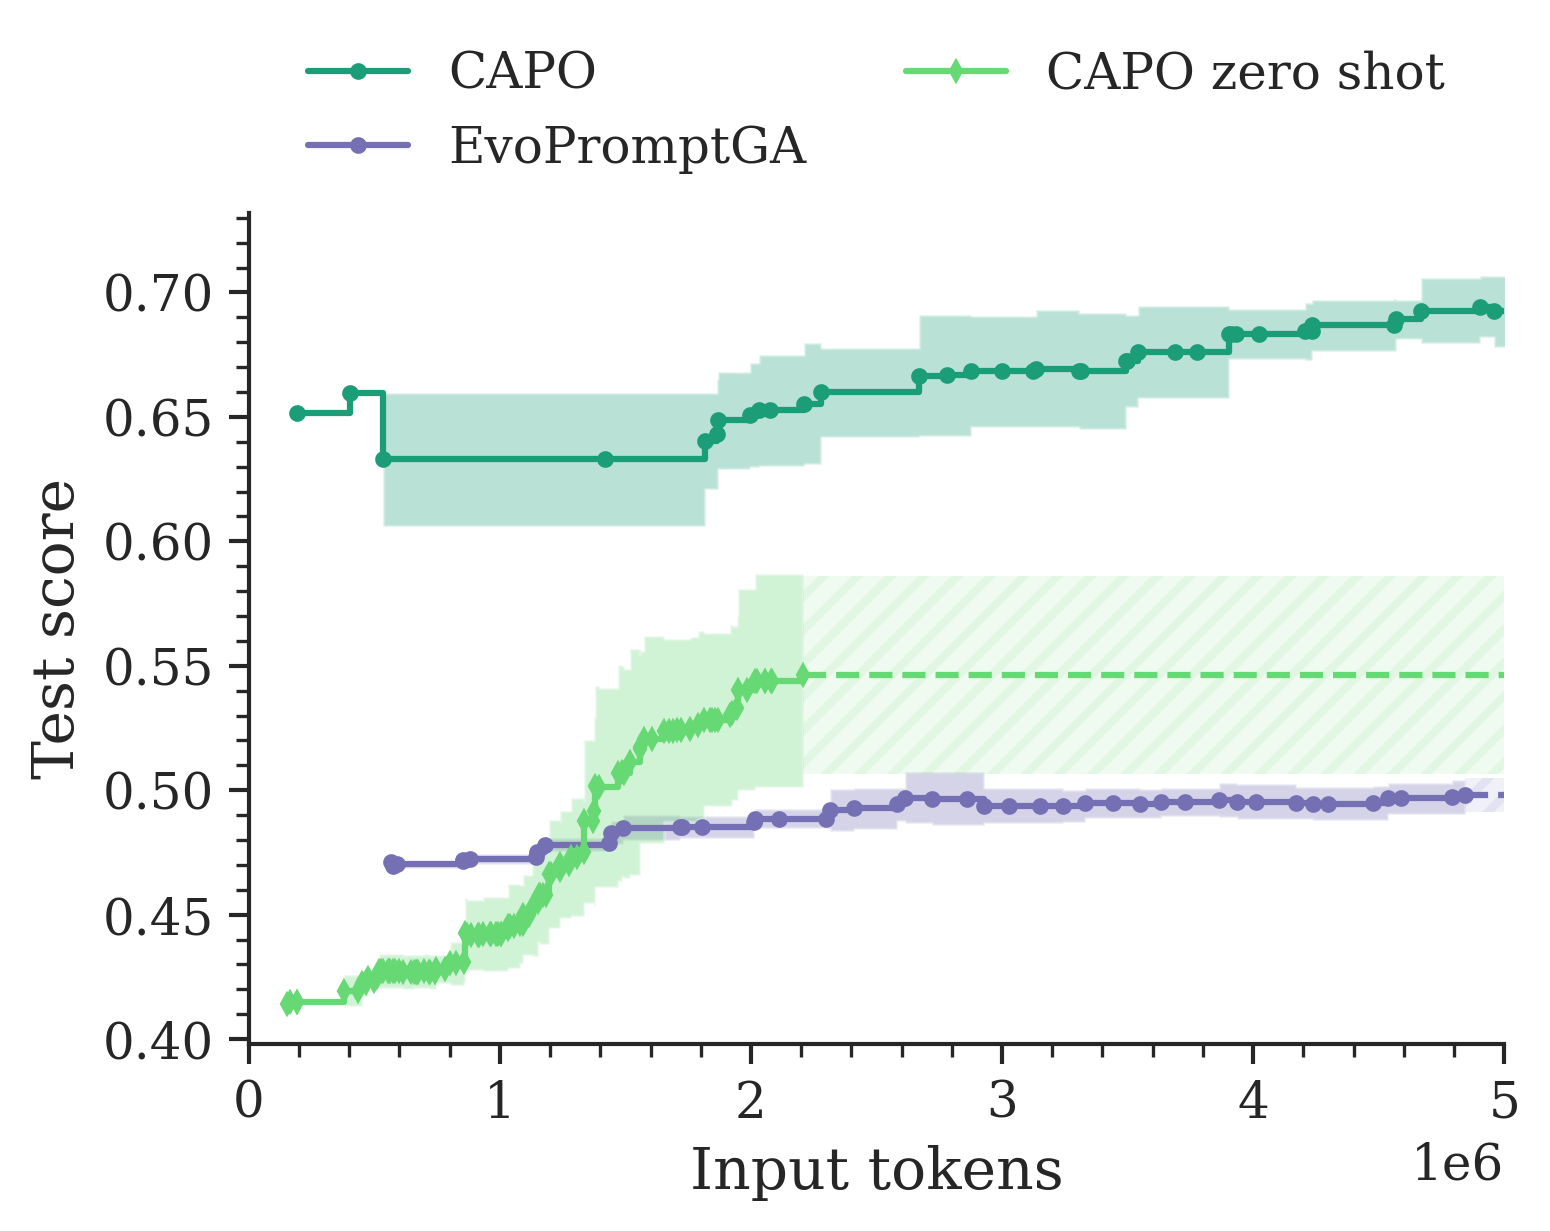
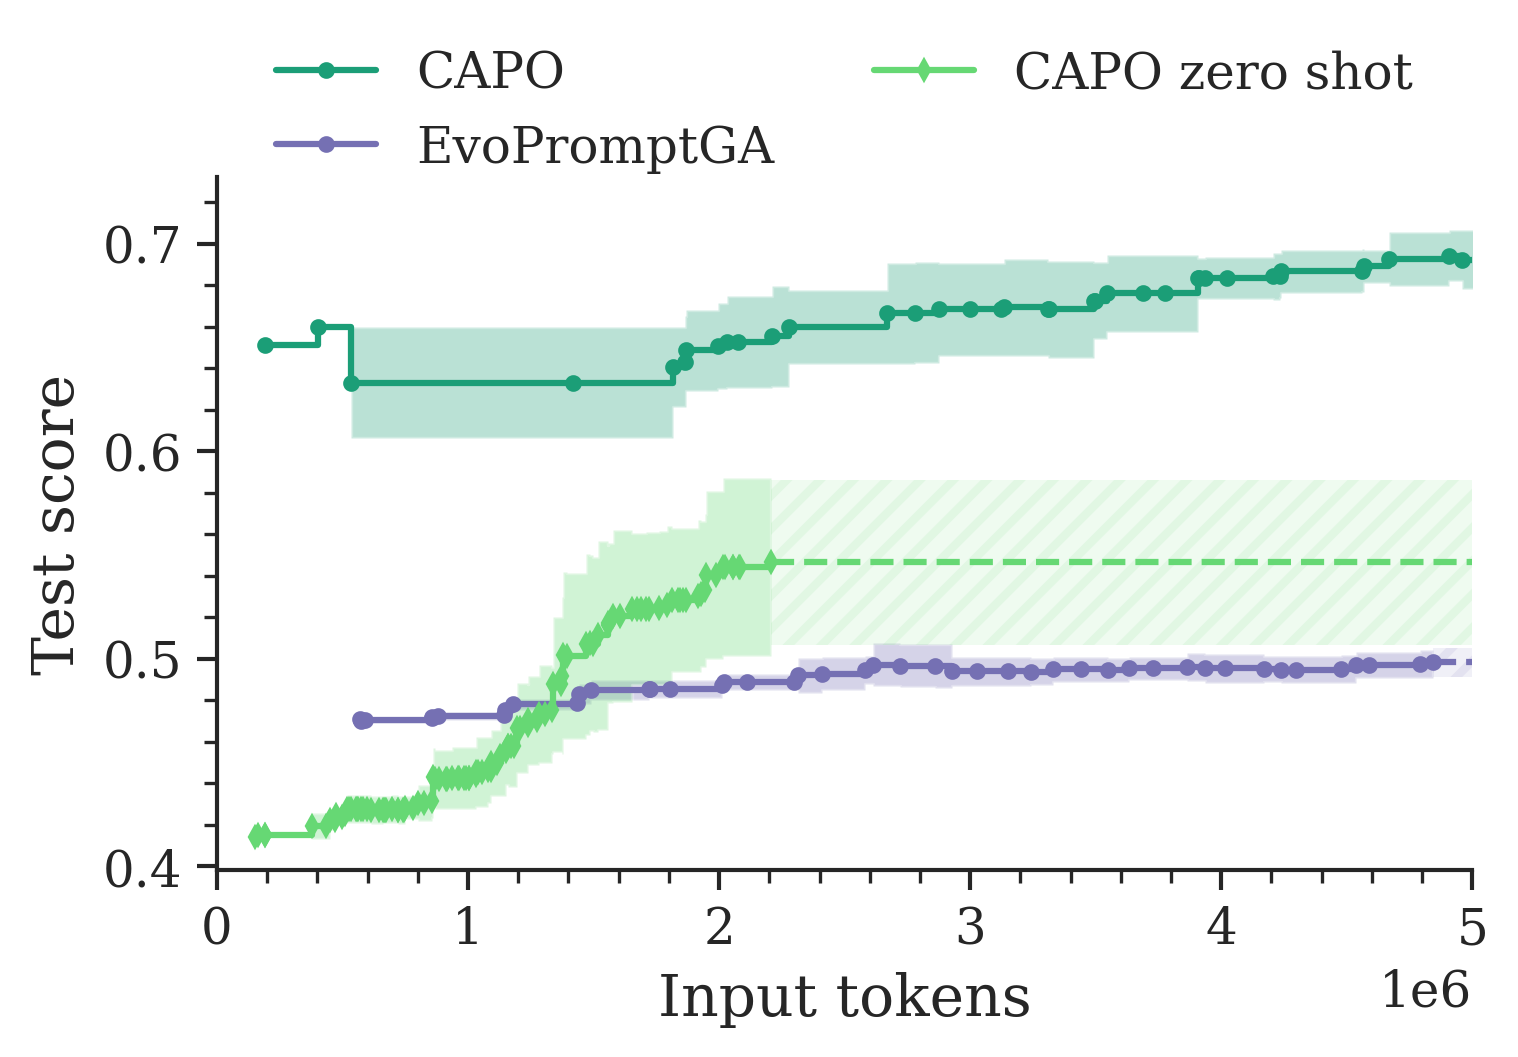
change plot sizes of ablation study plots

Changed region(s): [[0.0, 0.1873, 0.9908, 0.9991], [0.1858, 0.0312, 0.5264, 0.1561], [0.5883, 0.0312, 0.9289, 0.0937]]

diff --git a/scripts/plot_creation.py b/scripts/plot_creation.py
@@ -227,6 +227,7 @@ if __name__ == "__main__":
                 colors=colors,
                 markers=markers,
                 ncols=2,
+                figsize=(5.4, 3),
             )
 
             fig.savefig(
@@ -246,6 +247,7 @@ if __name__ == "__main__":
                 colors=colors,
                 markers=markers,
                 ncols=2,
+                figsize=(5.4, 3),
             )
             fig.savefig(
                 f"./results/plots/capo_ablation_racing_{dataset}_cum.png",
@@ -264,6 +266,7 @@ if __name__ == "__main__":
                 markers=markers,
                 labels=["CAPO", "", "CAPO w/ shuffling"],
                 ncols=2,
+                figsize=(5.4, 3),
             )
 
             fig.savefig(
@@ -283,6 +286,7 @@ if __name__ == "__main__":
                 colors=colors,
                 markers=markers,
                 ncols=2,
+                figsize=(5.4, 3),
             )
 
             fig.savefig(
@@ -302,6 +306,7 @@ if __name__ == "__main__":
                 colors=colors,
                 markers=markers,
                 ncols=2,
+                figsize=(5.4, 3),
             )
 
             fig.savefig(
@@ -327,12 +332,12 @@ if __name__ == "__main__":
             fig = plot_population_scores_comparison(
                 dataset,
                 "llama",
-                ["CAPO", "EvoPromptGA", "CAPO_generic_init"],  # , "EvoPromptGA_generic_init"],
+                ["CAPO", "EvoPromptGA", "CAPO_generic_init"],
                 labels=[
                     "CAPO",
                     "EvoPromptGA",
                     "CAPO w/ generic init",
-                ],  # , "EvoPromptGA w/ generic init"],
+                ],
                 path_prefix=".",
                 plot_stddev=True,
                 plot_seeds=False,
@@ -340,6 +345,7 @@ if __name__ == "__main__":
                 colors=colors,
                 markers=markers,
                 ncols=2,
+                figsize=(5.4, 3),
             )
 
             fig.savefig(
@@ -373,6 +379,7 @@ if __name__ == "__main__":
                 colors=colors,
                 markers=markers,
                 ncols=2,
+                figsize=(5.4, 3),
             )
 
             fig.savefig(
